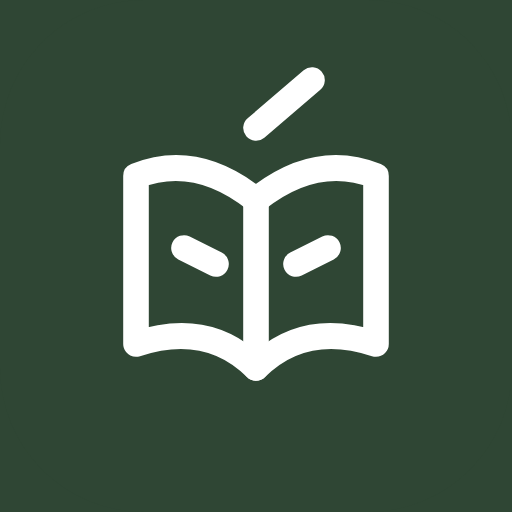
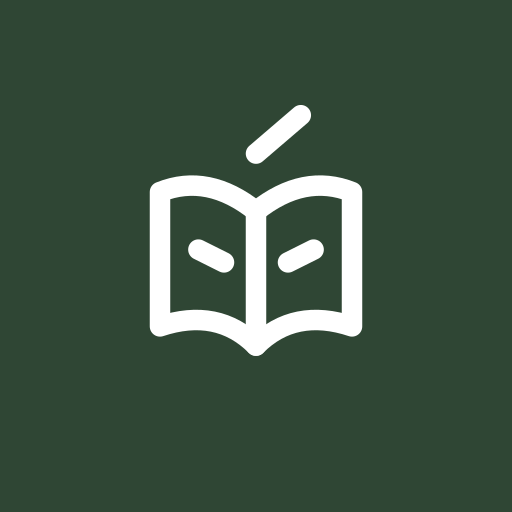
feat: installable PWA for Safari home screen (1.3.2)

Changed region(s): [[0.2188, 0.125, 0.7812, 0.75]]

diff --git a/web/src/components/Shell.tsx b/web/src/components/Shell.tsx
@@ -186,7 +186,7 @@ export function Shell({ children }: { children: ReactNode }) {
   const section = NAV.find((n) => n.key === top)?.label ?? "1000H French";
   return (
     <TooltipProvider>
-      <SidebarProvider>
+      <SidebarProvider className="pl-[var(--safe-left)] pr-[var(--safe-right)]">
         {!focused && <AppSidebar />}
         <SidebarInset id="main" tabIndex={-1} className="main flex h-svh min-w-0 flex-col overflow-y-auto bg-background">
           <a
@@ -196,7 +196,7 @@ export function Shell({ children }: { children: ReactNode }) {
           >
             Skip to main content
           </a>
-          <header className="sticky top-0 z-20 flex h-14 shrink-0 items-center gap-2 border-b bg-background px-3 pt-safe">
+          <header className="sticky top-0 z-20 flex min-h-[calc(3.5rem+var(--safe-top))] shrink-0 items-center gap-2 border-b bg-background px-3 pt-safe">
             {focused ? <FocusBar /> : (
               <>
                 <SidebarTrigger />
@@ -223,7 +223,10 @@ export function Shell({ children }: { children: ReactNode }) {
           <div className="flex min-w-0 flex-1 flex-col px-4 pt-4 md:px-0 md:pt-6">{children}</div>
           <GlobalPlayer />
         </SidebarInset>
-        <Toaster />
+        <Toaster
+          offset={{ top: "calc(2rem + var(--safe-top))", bottom: "calc(2rem + var(--safe-bottom))", left: "calc(2rem + var(--safe-left))", right: "calc(2rem + var(--safe-right))" }}
+          mobileOffset={{ top: "calc(1rem + var(--safe-top))", bottom: "calc(1rem + var(--safe-bottom))", left: "calc(1rem + var(--safe-left))", right: "calc(1rem + var(--safe-right))" }}
+        />
       </SidebarProvider>
     </TooltipProvider>
   );
@@ -304,7 +307,7 @@ function GlobalPlayer() {
   };
   const pct = p.duration ? Math.min(100, (p.position / p.duration) * 100) : 0;
   return (
-    <section className="sticky bottom-0 z-20 flex flex-wrap items-center gap-3 border-t bg-background px-4 py-2 pb-safe" aria-label={`Player: ${p.owner.label}`}>
+    <section className="sticky bottom-0 z-20 flex flex-wrap items-center gap-3 border-t bg-background px-4 py-2 pb-[calc(0.5rem+var(--safe-bottom))]" aria-label={`Player: ${p.owner.label}`}>
       {p.status === "error" ? (
         <Button type="button" variant="outline" size="icon" aria-label={`Retry ${p.owner.label}`} onClick={retryPlayback}>{<RotateCcw aria-hidden />}</Button>
       ) : p.status === "playing" || p.status === "buffering" ? (
@@ -365,7 +368,7 @@ export function MasteryToast() {
   if (!visible.length) return null;
 
   return (
-    <div className="pointer-events-none fixed bottom-4 left-1/2 z-50 flex w-[min(32rem,calc(100%-1.5rem))] -translate-x-1/2 flex-col gap-2">
+    <div className="pointer-events-none fixed bottom-[calc(1rem+var(--safe-bottom))] left-1/2 z-50 flex w-[min(32rem,calc(100%-1.5rem-var(--safe-left)-var(--safe-right)))] -translate-x-1/2 flex-col gap-2">
       {visible.map((m, idx) => {
         const left = Math.max(0, Math.ceil((UNDO_MS - (now - m.at)) / 1000));
         const card = cards.find((c) => c.id === m.cardId);

diff --git a/web/src/styles.css b/web/src/styles.css
@@ -13,6 +13,8 @@
   --text: #2a2622;
   --safe-top: env(safe-area-inset-top, 0px);
   --safe-bottom: env(safe-area-inset-bottom, 0px);
+  --safe-left: env(safe-area-inset-left, 0px);
+  --safe-right: env(safe-area-inset-right, 0px);
   color-scheme: light;
   --background: #f7f4ee;
   --foreground: #2a2622;
@@ -174,10 +176,10 @@
 }
 
 @utility pt-safe {
-  padding-top: env(safe-area-inset-top, 0px);
+  padding-top: var(--safe-top);
 }
 @utility pb-safe {
-  padding-bottom: env(safe-area-inset-bottom, 0px);
+  padding-bottom: var(--safe-bottom);
 }
 
 @media (prefers-reduced-motion: reduce) {
@@ -187,4 +189,34 @@
     transition-duration: 0.01ms !important;
     scroll-behavior: auto !important;
   }
+}
+
+/* Edge-to-edge portals live outside the shell's horizontal safe-area gutter. */
+[data-slot="drawer-content"],
+[data-slot="sheet-content"] {
+  padding-left: var(--safe-left);
+  padding-right: var(--safe-right);
+}
+[data-slot="drawer-content"][data-vaul-drawer-direction="bottom"],
+[data-slot="sheet-content"][data-side="bottom"] {
+  padding-bottom: var(--safe-bottom);
+}
+[data-slot="drawer-content"][data-vaul-drawer-direction="top"],
+[data-slot="sheet-content"][data-side="top"] {
+  padding-top: var(--safe-top);
+}
+[data-slot="drawer-content"]:is([data-vaul-drawer-direction="left"], [data-vaul-drawer-direction="right"]) {
+  padding-top: var(--safe-top);
+  padding-bottom: var(--safe-bottom);
+}
+[data-slot="sheet-close"] {
+  top: calc(1rem + var(--safe-top));
+  right: calc(1rem + var(--safe-right));
+}
+
+[data-slot="sidebar-container"][data-side="left"] {
+  margin-left: var(--safe-left);
+}
+[data-slot="sidebar-container"][data-side="right"] {
+  margin-right: var(--safe-right);
 }

diff --git a/web/src/screens/Exercise.tsx b/web/src/screens/Exercise.tsx
@@ -457,7 +457,7 @@ export function Exercise({
             <Alert variant="destructive" role="alert"><AlertTitle>Checking didn’t finish</AlertTitle><AlertDescription>This is a technical problem, not a wrong answer. Your answer is kept and Retry checks the same attempt.</AlertDescription></Alert>
           )}
           {busy && <Spinner label="Checking your answer…" />}
-          <div className="sticky bottom-0 z-10 bg-background py-3">
+          <div className="sticky bottom-0 z-10 bg-background py-3 pb-[calc(0.75rem+var(--safe-bottom))]">
             <div className="flex flex-wrap items-center gap-2">
               <Button type="button" variant="default" aria-disabled={(!!(busy)) || undefined} aria-busy={busy || undefined} className={cn((!!(busy)) ? "opacity-50" : "")} onClick={(event) => { if (!!(busy)) { event.preventDefault(); return; } (() => submitAnswer(sessionKey))(); }}>{busy ? <Loader2 className="animate-spin" aria-hidden /> : null}{ui.phase === "techfail" ? "Retry check" : busy ? "Checking…" : "Check"}</Button>
               <Button type="button" variant="ghost" aria-pressed={ui.hint || undefined} onClick={() => {

diff --git a/web/src/screens/PracticeWrite.tsx b/web/src/screens/PracticeWrite.tsx
@@ -234,7 +234,7 @@ export function Write() {
             </div>
             {error && <Alert variant="destructive" role="alert"><AlertTitle>Feedback didn’t load</AlertTitle><AlertDescription>{error} Your text is kept.</AlertDescription></Alert>}
             {phase === "wait1" && <Spinner label="Reading your text… this usually takes 10–40 seconds." />}
-            <div className="sticky bottom-0 z-10 bg-background py-3">
+            <div className="sticky bottom-0 z-10 bg-background py-3 pb-[calc(0.75rem+var(--safe-bottom))]">
               <div className="flex flex-wrap items-center gap-2">
                 <Button type="button" variant="default" aria-disabled={(!!(phase === "wait1")) || undefined} aria-busy={phase === "wait1" || undefined} className={cn((!!(phase === "wait1")) ? "opacity-50" : "")} onClick={(event) => { if (!!(phase === "wait1")) { event.preventDefault(); return; } (() => void submit1())(); }}>{phase === "wait1" ? <Loader2 className="animate-spin" aria-hidden /> : null}{error ? "Retry" : "Get feedback"}</Button>
               </div>

diff --git a/web/index.html b/web/index.html
@@ -7,11 +7,13 @@
     <title>1000H French</title>
     <link rel="icon" type="image/svg+xml" href="/static/brand-symbol.svg?v=1" />
     <link rel="manifest" href="/manifest.webmanifest" />
-    <meta name="theme-color" content="#f3efe6" />
+    <meta name="theme-color" content="#f7f4ee" />
     <meta name="apple-mobile-web-app-capable" content="yes" />
     <meta name="mobile-web-app-capable" content="yes" />
+    <meta name="apple-mobile-web-app-status-bar-style" content="default" />
     <meta name="apple-mobile-web-app-title" content="1000H French" />
-    <link rel="apple-touch-icon" sizes="180x180" href="/static/pwa/apple-touch-icon.png?v=brand-1" />
+    <link rel="apple-touch-icon" sizes="180x180" href="/static/pwa/apple-touch-icon.png?v=brand-2" />
+    <script src="/static/pwa-register.js?v=1.3.2" defer></script>
   </head>
   <body>
     <div id="root"></div>

diff --git a/web/src/screens/StudyInput.tsx b/web/src/screens/StudyInput.tsx
@@ -500,7 +500,7 @@ function OcrResults({ back, photoTitle }: { back: React.ReactNode; photoTitle: s
               }}>Put it back</Button>
           </p>
         )}
-        <div className="sticky bottom-0 z-10 bg-background py-3">
+        <div className="sticky bottom-0 z-10 bg-background py-3 pb-[calc(0.75rem+var(--safe-bottom))]">
           <div className="flex flex-wrap items-center gap-2">
             <Button type="button" variant="default" aria-disabled={(!!(reason)) || undefined} className={cn((!!(reason)) ? "opacity-50" : "")} onClick={(event) => { if (!!(reason)) { event.preventDefault(); return; } (() => {
                 patchStudy({ mode: "text", drafts: { ...get().study.drafts, text: selected.map((l) => l.text.trim()).join("\n") } });

diff --git a/static/sw.js b/static/sw.js
@@ -1,7 +1,8 @@
 /* 1000H French service worker (served at /sw.js, scope /).
    Caches only versioned static files (/static/...?v=<version>) so pages open fast.
    Never touches /api, /tts, /files, /episodes or auth: those always go to the network.
-   HTML is network-first (the cached copy is only an offline fallback), so a deploy is
+   SPA HTML (/app, /app/* including index.html) and /app/assets/* stay network-only.
+   Public landing HTML is network-first (the cached copy is only an offline fallback), so a deploy is
    picked up on the next load and a page never runs old JS against a new server.
    The version below changes on every deploy, which makes the browser install a new worker. */
 'use strict';

diff --git a/web/src/data/releases.ts b/web/src/data/releases.ts
@@ -8,6 +8,13 @@ export const RELEASES = [
     version: APP_VERSION,
     date: "2026-11-11",
     changes: [
+      "Install on iPhone Home Screen or in the Mac Dock. App bars and word cards respect safe areas.",
+    ],
+  },
+  {
+    version: "1.3.1",
+    date: "2026-11-11",
+    changes: [
       "Removed the French character keyboard and Enter hint from Recall and Dictation.",
     ],
   },

diff --git a/tests/test_pwa.py b/tests/test_pwa.py
@@ -1,13 +1,18 @@
 import json
 import pathlib
 import struct
+import subprocess
+from unittest.mock import patch
 import unittest
 from urllib.parse import urlsplit
 
 import testenv  # noqa: F401  (must run before the app is imported)
 from fastapi.testclient import TestClient
+from starlette.requests import Request
+from starlette.responses import Response
 
 import routers.pages
+import routers.app_shell
 import tts_service
 import web_common
 
@@ -29,7 +34,12 @@ class PwaTests(unittest.TestCase):
         self.assertEqual(res.status_code, 200)
         self.assertIn("application/manifest+json", res.headers["content-type"])
         m = json.loads(res.text)
-        self.assertEqual((m["start_url"], m["scope"], m["display"]), ("/app/study", "/", "standalone"))
+        self.assertEqual((m["start_url"], m["scope"], m["display"]), ("/app/study", "/app/", "standalone"))
+        self.assertEqual(m["id"], "/app/study")
+        self.assertEqual(m["name"], "1000H French")
+        self.assertEqual(m["theme_color"], "#f7f4ee")
+        self.assertEqual(m["background_color"], "#f7f4ee")
+        self.assertEqual(res.headers["cache-control"], "no-cache")
         sizes = {(i["sizes"], i["purpose"]) for i in m["icons"]}
         self.assertIn(("192x192", "any"), sizes)
         self.assertIn(("512x512", "any"), sizes)
@@ -37,7 +47,9 @@ class PwaTests(unittest.TestCase):
         for icon in m["icons"]:
             w, h = _png_size(STATIC / urlsplit(icon["src"]).path.removeprefix("/static/"))
             self.assertEqual(f"{w}x{h}", icon["sizes"])
-            self.assertEqual(self.client.get(icon["src"]).status_code, 200)
+            response = self.client.get(icon["src"])
+            self.assertEqual(response.status_code, 200)
+            self.assertEqual(response.headers["content-type"], "image/png")
         self.assertEqual(_png_size(STATIC / "pwa" / "apple-touch-icon.png"), (180, 180))
 
     def test_every_page_has_ios_app_tags(self):
@@ -45,7 +57,11 @@ class PwaTests(unittest.TestCase):
             html = self.client.get(path).text
             for tag in (
                 'rel="manifest"',
-                "apple-mobile-web-app-capable",
+                'name="apple-mobile-web-app-capable" content="yes"',
+                'name="mobile-web-app-capable" content="yes"',
+                'name="apple-mobile-web-app-status-bar-style" content="default"',
+                'name="apple-mobile-web-app-title" content="1000H French"',
+                'name="theme-color" content="#f7f4ee"',
                 'rel="apple-touch-icon"',
                 "viewport-fit=cover",
                 "/static/pwa-register.js?v=" + routers.pages.ASSET_VERSION,
@@ -99,3 +115,67 @@ class PwaTests(unittest.TestCase):
                 first = routers.pages._asset_version()
                 script.write_text("two", encoding="utf-8")
                 self.assertNotEqual(first, routers.pages._asset_version())
+
+    def test_spa_source_and_built_shell_have_ios_tags(self):
+        web = pathlib.Path(__file__).resolve().parents[1] / "web"
+        indexes = [web / "index.html"]
+        if (web / "dist" / "index.html").is_file():
+            indexes.append(web / "dist" / "index.html")
+        for index in indexes:
+            html = index.read_text()
+            for tag in (
+                'name="apple-mobile-web-app-capable" content="yes"',
+                'name="mobile-web-app-capable" content="yes"',
+                'name="apple-mobile-web-app-status-bar-style" content="default"',
+                'name="apple-mobile-web-app-title" content="1000H French"',
+                'name="theme-color" content="#f7f4ee"',
+                'rel="apple-touch-icon"', 'viewport-fit=cover',
+                '/static/pwa-register.js?v=1.3.2',
+            ):
+                self.assertIn(tag, html, (index, tag))
+            self.assertEqual(html.count('rel="manifest"'), 1)
+            with patch.object(routers.app_shell, "APP_DIR", index.parent):
+                for path in ("/app", "/app/study", "/app/index.html"):
+                    res = self.client.get(path)
+                    self.assertEqual(res.status_code, 200)
+                    self.assertEqual(res.text, html)
+                    self.assertIn("no-store", res.headers["cache-control"])
+
+    def test_service_worker_leaves_sensitive_routes_and_spa_on_network(self):
+        # Execute the actual fetch handler: assertions about comments alone cannot prove safety.
+        src = (STATIC / "sw.js").read_text()
+        script = """
+const vm = require('node:vm');
+const assert = require('node:assert/strict');
+const handlers = {};
+vm.runInNewContext(SOURCE, {
+    URL, self: {location: {origin: 'https://example.test'},
+        addEventListener: (name, handler) => handlers[name] = handler}
+});
+for (const path of ['/api/study', '/tts', '/files/a.mp3', '/auth/login',
+                    '/users.db', '/episodes', '/app', '/app/study', '/app/index.html',
+                    '/app/assets/index-hash.js', '/static/plain.js',
+                    '/static/versioned.js?v=wrong']) {
+    for (const mode of ['navigate', 'cors']) {
+        let intercepted = false;
+        handlers.fetch({request: {method: 'GET', url: 'https://example.test' + path, mode},
+            respondWith: () => intercepted = true});
+        assert.equal(intercepted, false, path + ' ' + mode);
+    }
+}
+""".replace("SOURCE", json.dumps(src), 1)
+        subprocess.run(["node", "-e", script], check=True, capture_output=True, text=True)
+        self.assertIn("await caches.delete(key)", src)
+        registration = (STATIC / "pwa-register.js").read_text()
+        self.assertIn("location.protocol !== 'https:'", registration)
+        self.assertIn("register('/sw.js', { scope: '/' })", registration)
+
+    def test_standalone_session_cookie_is_same_origin_and_secure(self):
+        request = Request({"type": "http", "scheme": "http", "path": "/app/study",
+                           "headers": [(b"x-forwarded-proto", b"https")],
+                           "client": ("127.0.0.1", 12345), "server": ("localhost", 443)})
+        response = Response()
+        web_common._set_session_cookie(response, "test-token", request)
+        cookie = response.headers["set-cookie"]
+        for value in ("fas_session=", "Path=/", "HttpOnly", "SameSite=lax", "Secure"):
+            self.assertIn(value, cookie)

diff --git a/tests/test_app_shell.py b/tests/test_app_shell.py
@@ -62,7 +62,7 @@ class AppShellTests(unittest.TestCase):
         cls.client = TestClient(tts_service.app)
 
     def test_shell_served_for_app_root_and_deep_links(self):
-        for path in ("/app", "/app/", "/app/study", "/app/review/session", "/app/progress/history?tab=x", "/app/login"):
+        for path in ("/app", "/app/", "/app/index.html", "/app/study", "/app/review/session", "/app/progress/history?tab=x", "/app/login"):
             with self.subTest(path=path):
                 res = self.client.get(path, follow_redirects=False)
                 self.assertEqual(res.status_code, 200)
@@ -169,7 +169,7 @@ class WebSourceTests(unittest.TestCase):
         parser = _Tags()
         parser.feed(html)
         scripts = [attrs for tag, attrs in parser.tags if tag == "script"]
-        self.assertEqual([a.get("src") for a in scripts], ["/src/main.tsx"])
+        self.assertEqual([a.get("src") for a in scripts], ["/static/pwa-register.js?v=1.3.2", "/src/main.tsx"])
         for tag, attrs in parser.tags:
             for name in attrs:
                 self.assertFalse(name.startswith("on"), f"inline handler {name} on <{tag}>")

diff --git a/routers/pages.py b/routers/pages.py
@@ -34,13 +34,12 @@ ASSET_VERSION = _asset_version()
 # Installable app (iPhone "Add to Home Screen"): manifest, icons, safe areas, service worker
 PWA_HEAD = (
     '<link rel="manifest" href="/manifest.webmanifest">\n'
-    '<meta name="theme-color" content="#f5f7fb" media="(prefers-color-scheme: light)">\n'
-    '<meta name="theme-color" content="#141a23" media="(prefers-color-scheme: dark)">\n'
+    '<meta name="theme-color" content="#f7f4ee">\n'
     '<meta name="apple-mobile-web-app-capable" content="yes">\n'
     '<meta name="mobile-web-app-capable" content="yes">\n'
     '<meta name="apple-mobile-web-app-title" content="1000H French">\n'
     '<meta name="apple-mobile-web-app-status-bar-style" content="default">\n'
-    '<link rel="apple-touch-icon" sizes="180x180" href="/static/pwa/apple-touch-icon.png?v=brand-1">\n'
+    '<link rel="apple-touch-icon" sizes="180x180" href="/static/pwa/apple-touch-icon.png?v=brand-2">\n'
     '<link rel="stylesheet" href="/static/pwa.css?v=__ASSET_VERSION__">\n'
     '<script src="/static/pwa-register.js?v=__ASSET_VERSION__" defer></script>\n'
 )

diff --git a/routers/app_shell.py b/routers/app_shell.py
@@ -30,9 +30,10 @@ MEDIA_TYPES = {
 @router.api_route("/app", methods=["GET", "HEAD"], include_in_schema=False)
 @router.api_route("/app/{path:path}", methods=["GET", "HEAD"], include_in_schema=False)
 async def app_shell(path: str = ""):
+    # index.html shares the no-store shell policy below.
     # A last segment with a dot (or anything under assets/) is a file: serve it or 404, never
     # the shell, so a missing chunk is a real 404 instead of HTML served as JavaScript.
-    if path.startswith("assets/") or "." in PurePosixPath(path).name:
+    if path != "index.html" and (path.startswith("assets/") or "." in PurePosixPath(path).name):
         try:
             target = (APP_DIR / path).resolve()
             found = target.is_relative_to(APP_DIR) and target.is_file()
